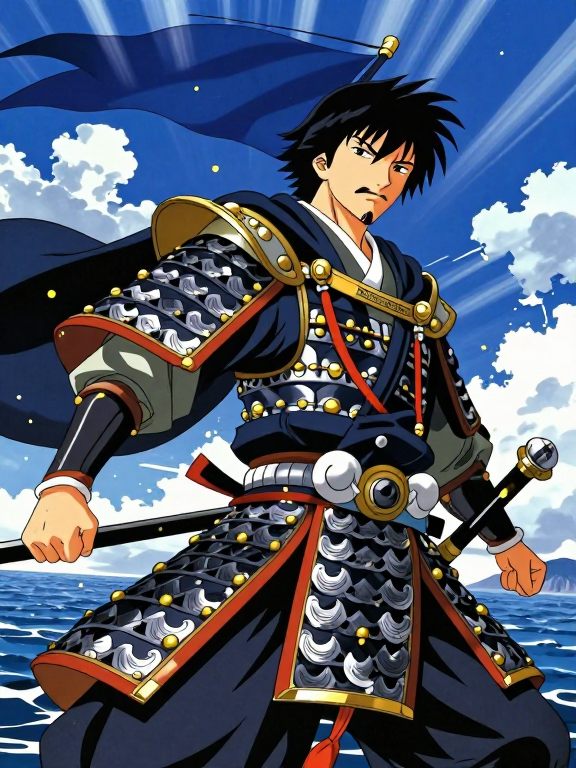
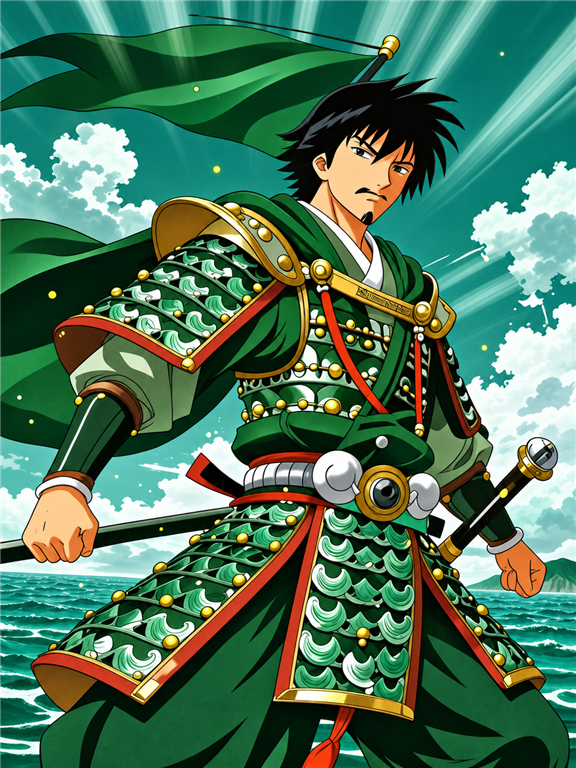
河野家と浅井家の札絵を思想色に合わせる

diff --git a/js/config.js b/js/config.js
@@ -1,6 +1,6 @@
 // 基本設定（数値はここで調整）
 window.SGK = window.SGK || {};
-SGK.VERSION = '3.11.1'; // 上げるときは index.html の <meta name="sgk-ver"> も同じ値に
+SGK.VERSION = '3.11.2'; // 上げるときは index.html の <meta name="sgk-ver"> も同じ値に
 SGK.SAVE_SCHEMA = 7; // セーブデータの形式番号（形式を変えたら上げて、save.js の migrate に変換を書く）
 SGK.CFG = {
   MIN_PER_SEC: 7.5,     // 現実1秒 = ゲーム内7.5分（1日 = 192秒）。2.102.1 15→7.5（時間の進みを半分に）

diff --git a/index.html b/index.html
@@ -3,7 +3,7 @@
 <head>
 <meta charset="utf-8">
 <meta name="viewport" content="width=device-width,initial-scale=1,maximum-scale=1,user-scalable=no">
-<meta name="sgk-ver" content="3.11.1">
+<meta name="sgk-ver" content="3.11.2">
 <title>天下往来</title>
 <style>
   :root { --ink:#efe6cc; --panel:rgba(24,20,15,.88); --line:#8a7448; --gold:#f2c14e; }

diff --git a/card/index.html b/card/index.html
@@ -241,7 +241,7 @@ button.effect-link:hover:not(:disabled){background:none;color:#fff0b0;outline:no
  <form method="dialog"><button autofocus>閉じる</button></form>
 </dialog>
 <script>
-const VERSION='0.69';
+const VERSION='0.70';
 let TEST=false;
 const sleep=ms=>TEST?Promise.resolve():new Promise(r=>setTimeout(r,ms));
 const IDEO={
